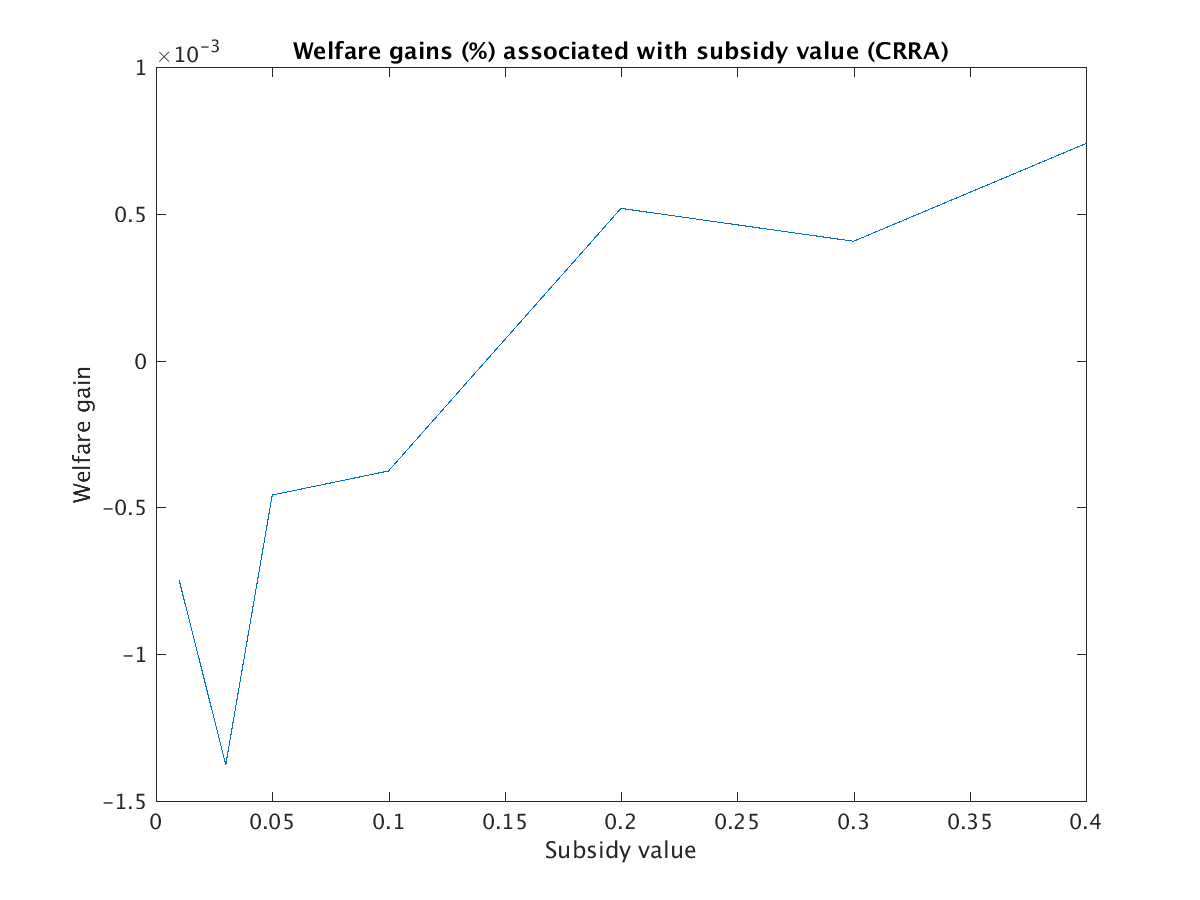
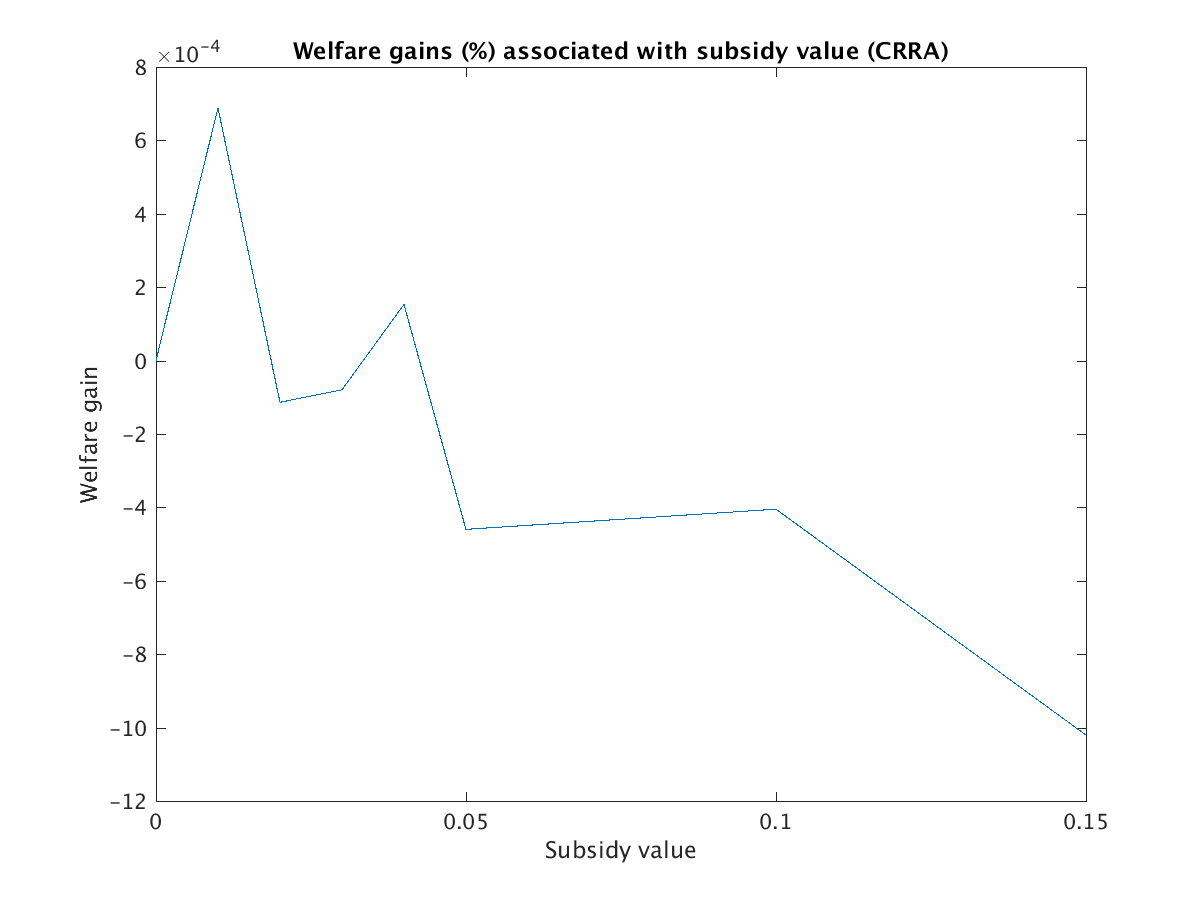
graphs for subsidies

diff --git a/simulations/welfare_counterfactuals/optimal_subsidy_zeta.m b/simulations/welfare_counterfactuals/optimal_subsidy_zeta.m
@@ -2,6 +2,8 @@ clear
 close all
 clc
 
+feature accel on
+
 %cd('/Users/alexandresollaci/Documents/UChicago/RA/Combinatorial growth/combinatorial_growth/simulations/welfare_counterfactuals/')
 
 etaH = 0.15; % NT step size
@@ -50,7 +52,7 @@ Welfare_plain = result_plain.Welfare;
 Welfare_log_plain = result_plain.Welfare_log;
 
 %% Run simulation with subsidy
-subsidy_vals = [0.01, 0.02, 0.03, 0.04, linspace(0.05,1,20)];
+subsidy_vals = [0, 0.01, 0.02, 0.03, 0.04, 0.05, .1, .15];
 subs_len = length(subsidy_vals);
 subsidy_subs = [subsidy_vals', zeros(subs_len,1)]; % ; zeros(subs_len,1), subsidy_vals'];
 
